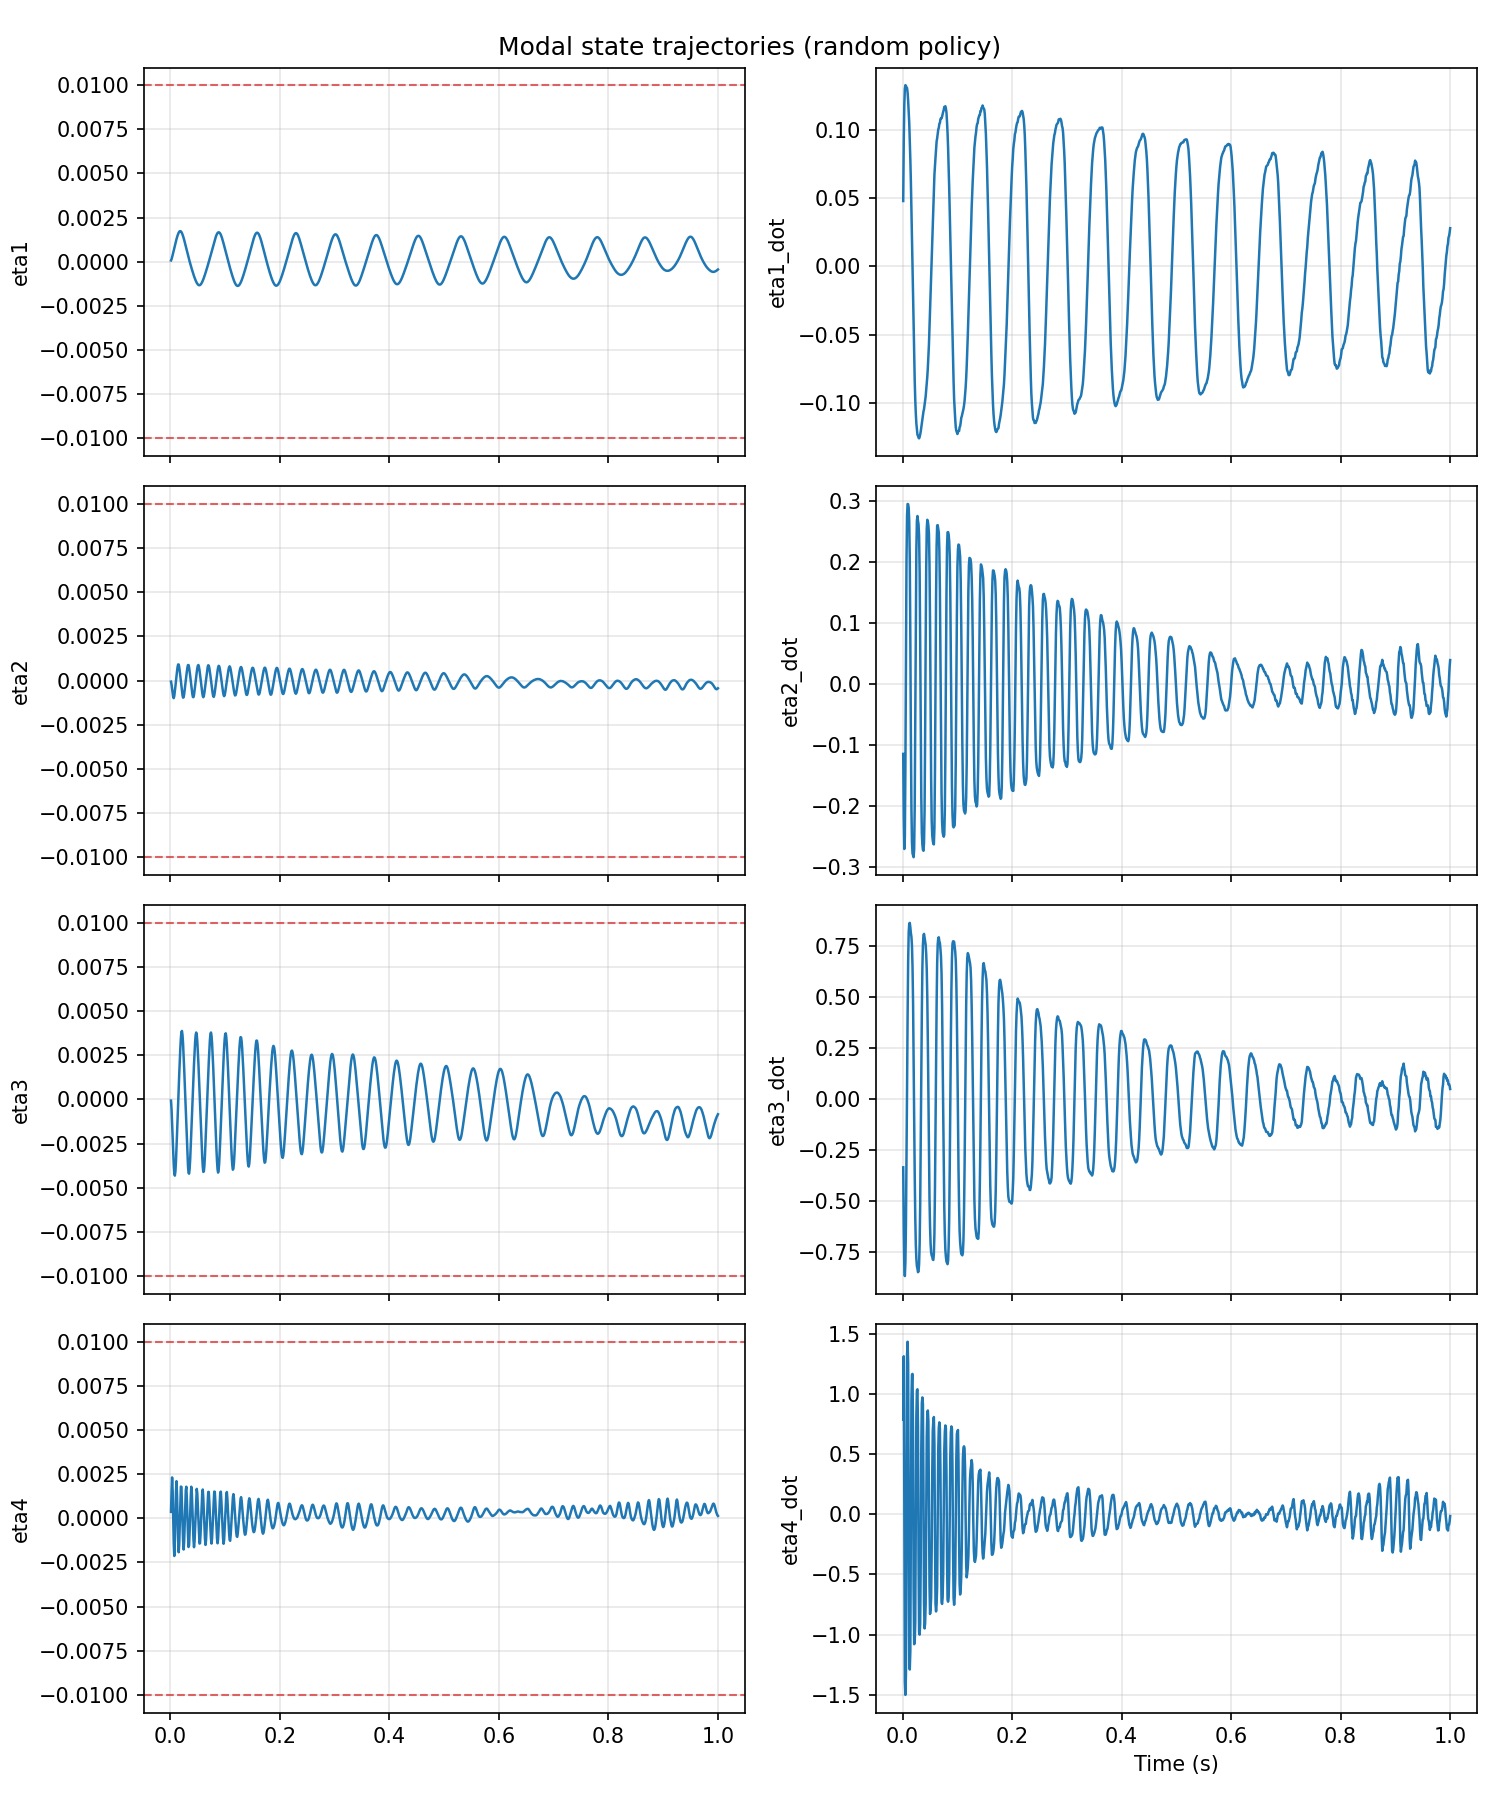
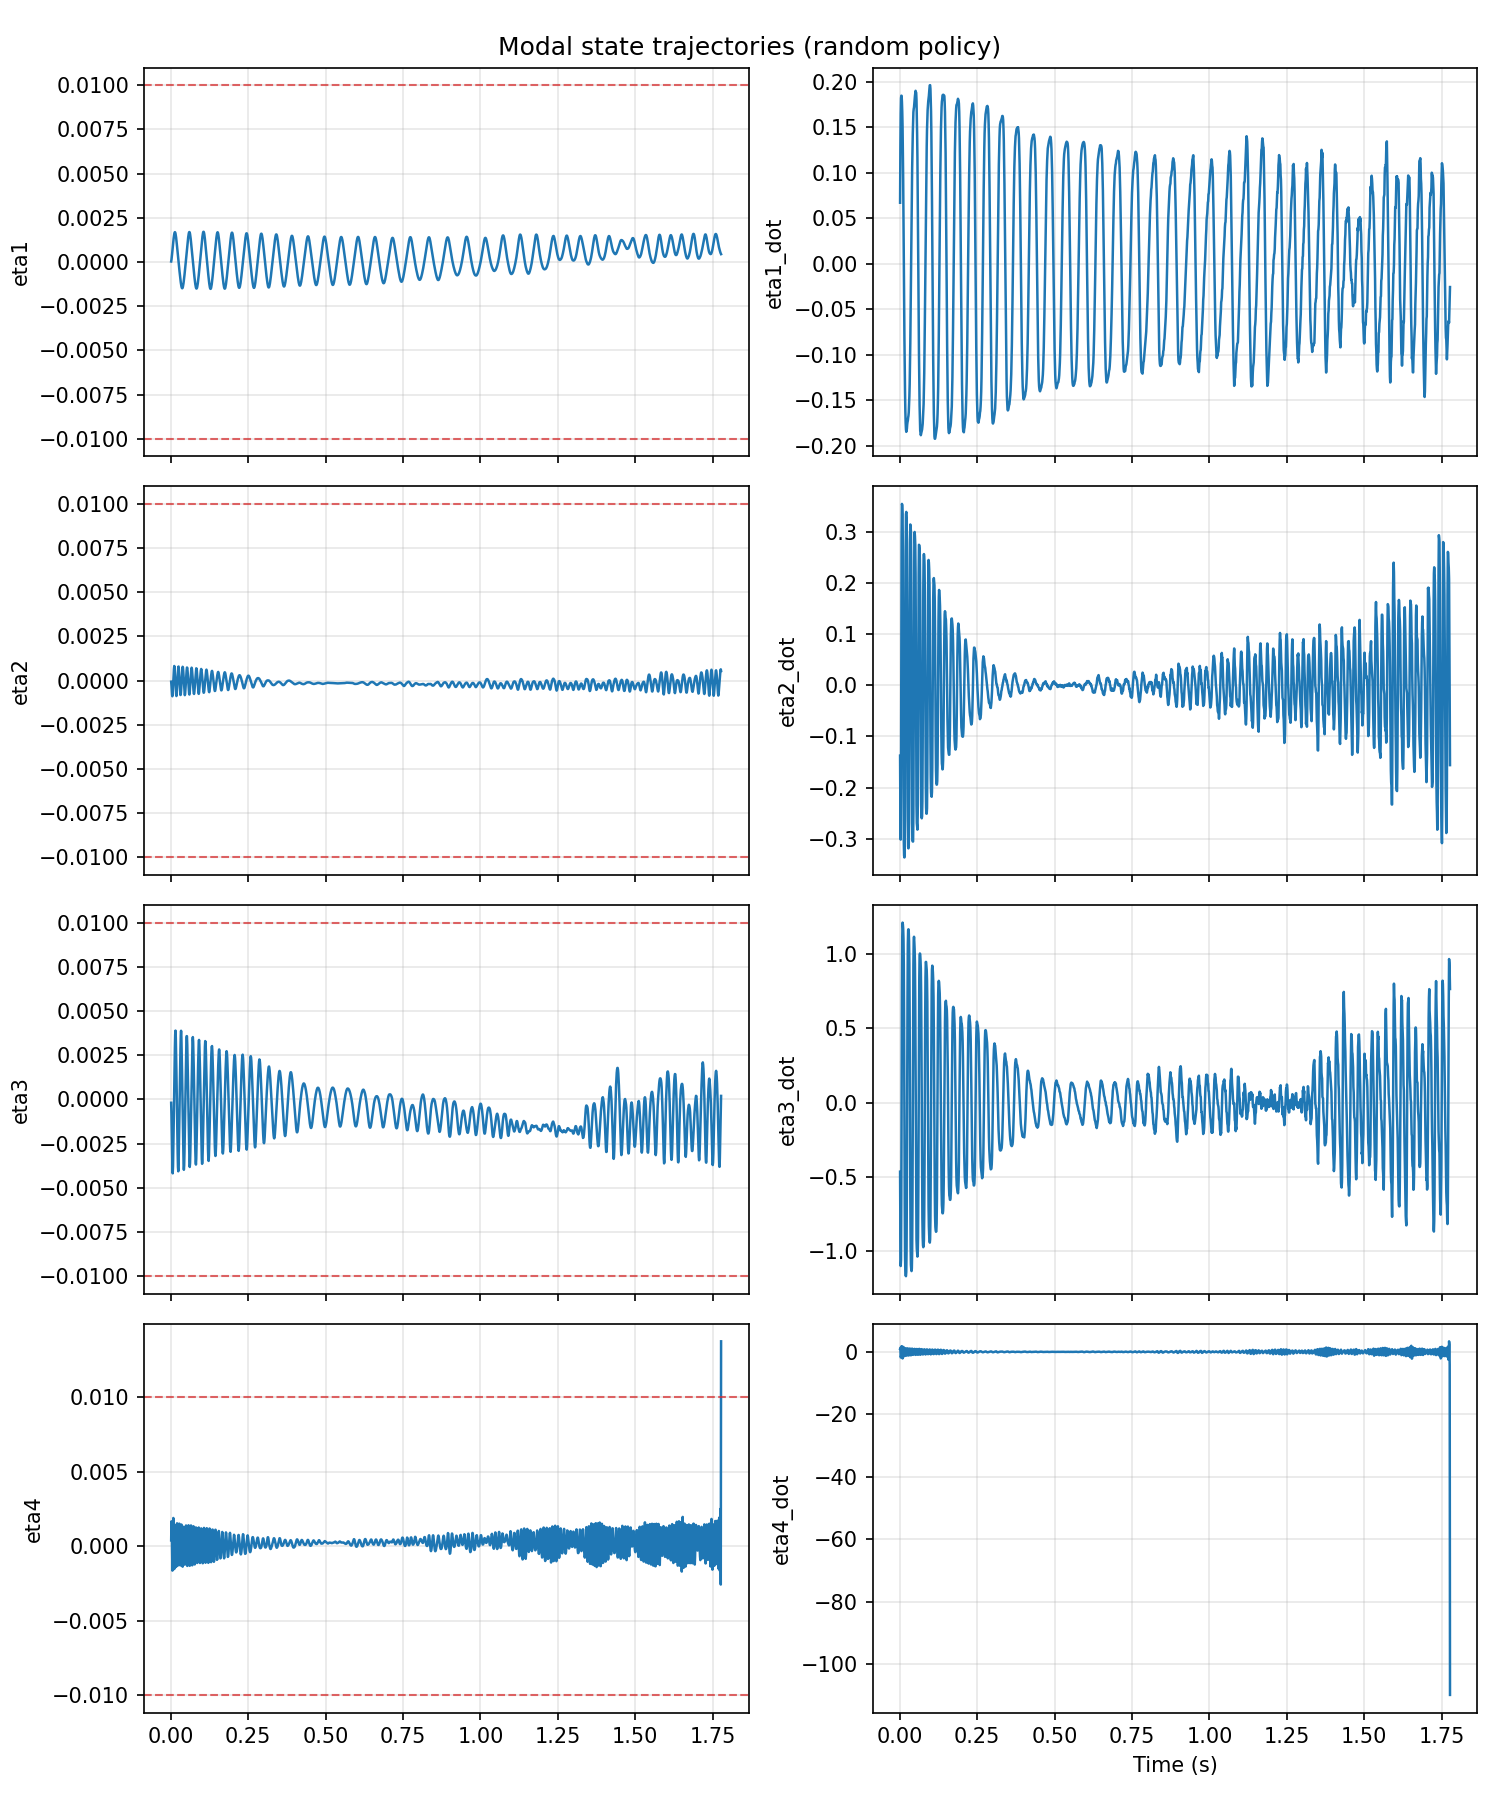
no-development

diff --git a/scripts/train_sb3_ppo.py b/scripts/train_sb3_ppo.py
@@ -28,7 +28,7 @@ def main() -> None:
         help="Reward function for the plate environment",
     )
 
-    parser.add_argument("--total-timesteps", type=int, default=100_000)
+    parser.add_argument("--total-timesteps", type=int, default=1_000_000)
     parser.add_argument("--log-dir", default=DEFAULT_LOG_DIR)
     parser.add_argument("--save-dir", default=DEFAULT_MODEL_DIR)
 
@@ -49,14 +49,14 @@ def main() -> None:
     parser.add_argument(
         "--max-episode-steps",
         type=int,
-        default=1000,
+        default=4800,
         help="Maximum steps per episode",
     )
 
     parser.add_argument(
         "--n-eval-episodes",
         type=int,
-        default=1,
+        default=5,
         help="Number of evaluation episodes",
     )
 

diff --git a/scripts/check_plate_random_policy.py b/scripts/check_plate_random_policy.py
@@ -241,7 +241,7 @@ def main() -> None:
     parser.add_argument("--steps", type=int, default=2000)
     parser.add_argument("--seed", type=int, default=42)
     parser.add_argument("--dt", type=float, default=0.001)
-    parser.add_argument("--max-episode-steps", type=int, default=5000)
+    parser.add_argument("--max-episode-steps", type=int, default=10000)
     parser.add_argument("--out-dir", default=str(Path(DEFAULT_PLOT_DIR) / "pretrain"))
     parser.add_argument("--fixed-action", action="store_true", help="Use constant omega/ac.")
     parser.add_argument("--omega", type=float, default=500.0, help="Physical spindle speed.")

diff --git a/custom_rl/plants/plate.py b/custom_rl/plants/plate.py
@@ -31,14 +31,14 @@ class PlatePlant(ODEPlant):
 
     def __init__(
         self,
-        N: int = 5,
+        N: int = 4,
         L1: float = 1.0,
-        L2: float = 0.5,
+        L2: float = 1,
         h: float = 0.02,
-        E: float = 70e9,
-        nu: float = 0.3,
-        rho: float = 7850.0,
-        m_max: int = 2,
+        E: float = 71.7e9,
+        nu: float = 0.33,
+        rho: float = 2810.0,
+        m_max: int = 3,
         n_max: int = 2,
         omega_min: float = 50,
         omega_max: float = 2000.0,

diff --git a/custom_rl/plants/f_nonlinear2.py b/custom_rl/plants/f_nonlinear2.py
@@ -75,7 +75,8 @@ MAX_FORCE = 1e5
 # State-delay configuration
 # ============================================================
 
-STATE_DELAY = 0.0            # seconds; set this to desired delay (>0)
+#STATE_DELAY = 0.0000075            # seconds; set this to desired delay (>0)
+STATE_DELAY = 0.000001            # seconds; set this to desired delay (>0)
 _state_history = []          # list of (t, x_copy) in increasing time order
 _MAX_HISTORY = 100000        # prevent unbounded memory growth
 

diff --git a/custom_rl/plants/f_nonlinear2_new.py b/custom_rl/plants/f_nonlinear2_new.py
@@ -75,7 +75,7 @@ MAX_FORCE = 1e5
 # State-delay configuration
 # ============================================================
 
-STATE_DELAY = 0.0            # seconds; set this to desired delay (>0)
+STATE_DELAY = 1            # seconds; set this to desired delay (>0)
 _state_history = []          # list of (t, x_copy) in increasing time order
 _MAX_HISTORY = 100000        # prevent unbounded memory growth
 
